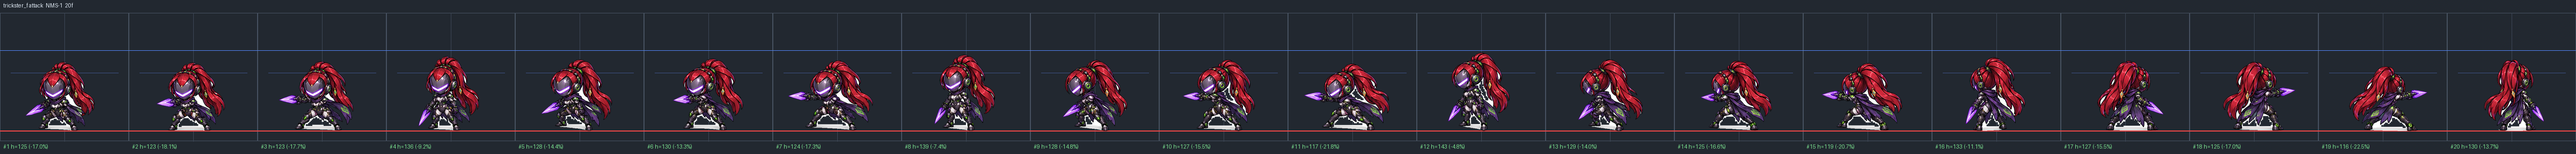
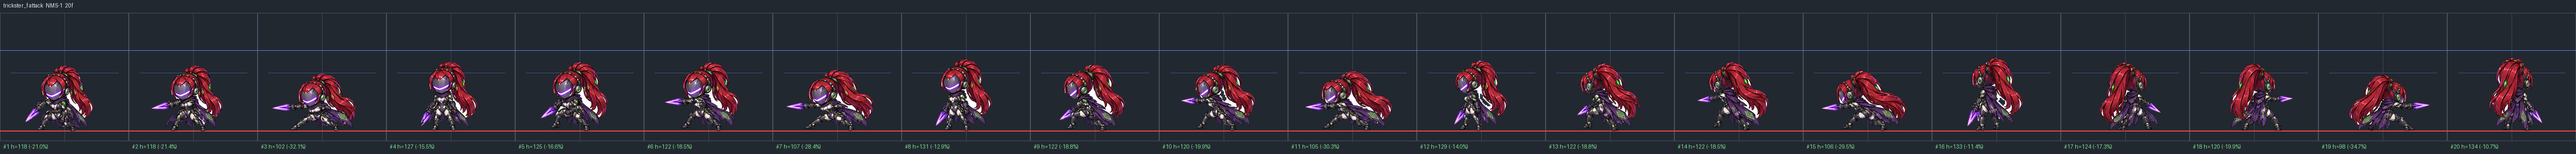
Trickster F: lunge-stab attack sheet (no white ground patch); no swing trail for straight stabs
Claude-Session: https://claude.ai/code/session_017QrEU6PVR1NvrPzc5r5uQv

diff --git a/js/armed_trail.js b/js/armed_trail.js
@@ -1,3 +1,3 @@
 'use strict';
 // สร้างโดย tools/armed_trail.py — วงเหวี่ยงของท่าโจมตีแบบถืออาวุธในภาพ ต่อแถว: f = เฟรมฟัน, p = ไหล่, a/b = ปลายอาวุธเฟรมก่อน/เฟรมฟัน (พิกัดช่อง 240 เทียบ CX/GROUND) • ห้ามแก้มือ
-const ARMED_TRAIL = {"berserker_f":[{"f":1,"p":[5,-105],"a":[34,-157],"b":[-85,-1]},{"f":1,"p":[8,-103],"a":[59,-143],"b":[-76,-1]},{"f":1,"p":[-8,-104],"a":[-58,-145],"b":[63,-1]},{"f":1,"p":[-9,-103],"a":[-60,-143],"b":[75,-1]},{"f":1,"p":[-6,-105],"a":[-35,-157],"b":[84,-1]},{"f":1,"p":[-8,-105],"a":[-40,-159],"b":[83,-1]},{"f":1,"p":[3,-105],"a":[38,-157],"b":[-71,-3]},{"f":1,"p":[7,-105],"a":[39,-159],"b":[-84,-1]}],"berserker_m":[{"f":1,"p":[-5,-107],"a":[-10,-165],"b":[-85,-5]},{"f":1,"p":[-1,-101],"a":[54,-114],"b":[-72,-5]},{"f":1,"p":[5,-106],"a":[-5,-163],"b":[60,-3]},{"f":1,"p":[0,-101],"a":[-55,-114],"b":[71,-5]},{"f":1,"p":[4,-107],"a":[9,-165],"b":[84,-5]},{"f":1,"p":[3,-106],"a":[-10,-163],"b":[85,-3]},{"f":1,"p":[2,-107],"a":[13,-164],"b":[80,-2]},{"f":1,"p":[-4,-106],"a":[9,-163],"b":[-86,-3]}],"einherjar_f":[{"f":1,"p":[9,-113],"a":[-12,-173],"b":[102,-16]},{"f":1,"p":[8,-110],"a":[-9,-168],"b":[57,-12]},{"f":1,"p":[-5,-110],"a":[-71,-101],"b":[-59,-22]},{"f":1,"p":[-9,-110],"a":[8,-168],"b":[-58,-12]},{"f":1,"p":[-10,-113],"a":[11,-173],"b":[-103,-16]},{"f":1,"p":[-6,-103],"a":[21,-158],"b":[-100,-23]},{"f":1,"p":[2,-105],"a":[-42,-161],"b":[87,-19]},{"f":1,"p":[5,-103],"a":[-22,-158],"b":[99,-23]}],"einherjar_m":[{"f":2,"p":[-1,-116],"a":[51,-73],"b":[-120,-11]},{"f":2,"p":[4,-114],"a":[46,-76],"b":[58,-22]},{"f":1,"p":[-4,-114],"a":[31,-175],"b":[77,-29]},{"f":2,"p":[-5,-114],"a":[-47,-76],"b":[-59,-22]},{"f":2,"p":[0,-116],"a":[-52,-73],"b":[119,-11]},{"f":2,"p":[6,-106],"a":[-49,-121],"b":[54,-115]},{"f":1,"p":[6,-113],"a":[74,-118],"b":[88,-31]},{"f":2,"p":[-7,-106],"a":[48,-121],"b":[-55,-115]}],"runecaster_f":[{"f":1,"p":[9,-101],"a":[117,-139],"b":[119,-76]},{"f":1,"p":[7,-100],"a":[97,-138],"b":[119,-126]},{"f":1,"p":[-7,-100],"a":[-88,-153],"b":[-113,-79]},{"f":1,"p":[-8,-100],"a":[-98,-138],"b":[-120,-126]},{"f":1,"p":[-10,-101],"a":[-118,-139],"b":[-120,-76]},{"f":1,"p":[7,-101],"a":[74,-155],"b":[-120,-127]},{"f":1,"p":[7,-104],"a":[93,-147],"b":[-120,-128]},{"f":1,"p":[-8,-101],"a":[-75,-155],"b":[119,-127]}],"runecaster_m":[{"f":1,"p":[5,-92],"a":[104,-137],"b":[-101,-24]},{"f":1,"p":[5,-92],"a":[98,-125],"b":[119,-63]},{"f":1,"p":[-3,-92],"a":[-89,-118],"b":[-120,-61]},{"f":1,"p":[-6,-92],"a":[-99,-125],"b":[-120,-63]},{"f":1,"p":[-6,-92],"a":[-105,-137],"b":[100,-24]},{"f":1,"p":[-3,-94],"a":[-77,-124],"b":[-118,-104]},{"f":1,"p":[-3,-88],"a":[-80,-113],"b":[88,-7]},{"f":1,"p":[2,-94],"a":[76,-124],"b":[117,-104]}],"trickster_f":[{"f":1,"p":[0,-86],"a":[56,-27],"b":[72,-64]},{"f":1,"p":[0,-86],"a":[68,-33],"b":[-50,-96]},{"f":2,"p":[-2,-84],"a":[-40,-45],"b":[-77,-57]},{"f":1,"p":[-1,-86],"a":[-69,-33],"b":[49,-96]},{"f":1,"p":[-1,-86],"a":[-57,-27],"b":[-73,-64]},{"f":1,"p":[-1,-86],"a":[-57,-23],"b":[-68,-61]},{"f":1,"p":[6,-85],"a":[68,-32],"b":[73,-74]},{"f":1,"p":[0,-86],"a":[56,-23],"b":[67,-61]}],"trickster_m":[{"f":1,"p":[3,-77],"a":[47,-18],"b":[67,-61]},{"f":1,"p":[-1,-76],"a":[28,-31],"b":[63,-53]},{"f":2,"p":[0,-75],"a":[36,-82],"b":[58,-50]},{"f":1,"p":[0,-76],"a":[-29,-31],"b":[-64,-53]},{"f":1,"p":[-4,-77],"a":[-48,-18],"b":[-68,-61]},{"f":1,"p":[1,-78],"a":[55,-14],"b":[70,-66]},{"f":1,"p":[0,-78],"a":[48,-15],"b":[66,-70]},{"f":1,"p":[-2,-78],"a":[-56,-14],"b":[-71,-66]}],"volva_f":[{"f":1,"p":[3,-98],"a":[59,-137],"b":[81,-9]},{"f":1,"p":[5,-99],"a":[57,-142],"b":[84,-10]},{"f":1,"p":[-3,-101],"a":[-36,-154],"b":[-77,-8]},{"f":1,"p":[-6,-99],"a":[-58,-142],"b":[-85,-10]},{"f":1,"p":[-4,-98],"a":[-60,-137],"b":[-82,-9]},{"f":1,"p":[-4,-99],"a":[-55,-141],"b":[-95,-14]},{"f":1,"p":[4,-103],"a":[-38,-78],"b":[84,-20]},{"f":1,"p":[3,-99],"a":[54,-141],"b":[94,-14]}],"volva_m":[{"f":1,"p":[0,-110],"a":[55,-168],"b":[78,-4]},{"f":1,"p":[2,-105],"a":[57,-161],"b":[73,-6]},{"f":1,"p":[-3,-105],"a":[-63,-161],"b":[59,-25]},{"f":1,"p":[-3,-105],"a":[-58,-161],"b":[-74,-6]},{"f":1,"p":[-1,-110],"a":[-56,-168],"b":[-79,-4]},{"f":1,"p":[3,-110],"a":[46,-169],"b":[84,-9]},{"f":1,"p":[3,-107],"a":[51,-163],"b":[85,-19]},{"f":1,"p":[-4,-110],"a":[-47,-169],"b":[-85,-9]}]};
+const ARMED_TRAIL = {"berserker_f":[{"f":1,"p":[5,-105],"a":[34,-157],"b":[-85,-1]},{"f":1,"p":[8,-103],"a":[59,-143],"b":[-76,-1]},{"f":1,"p":[-8,-104],"a":[-58,-145],"b":[63,-1]},{"f":1,"p":[-9,-103],"a":[-60,-143],"b":[75,-1]},{"f":1,"p":[-6,-105],"a":[-35,-157],"b":[84,-1]},{"f":1,"p":[-8,-105],"a":[-40,-159],"b":[83,-1]},{"f":1,"p":[3,-105],"a":[38,-157],"b":[-71,-3]},{"f":1,"p":[7,-105],"a":[39,-159],"b":[-84,-1]}],"berserker_m":[{"f":1,"p":[-5,-107],"a":[-10,-165],"b":[-85,-5]},{"f":1,"p":[-1,-101],"a":[54,-114],"b":[-72,-5]},{"f":1,"p":[5,-106],"a":[-5,-163],"b":[60,-3]},{"f":1,"p":[0,-101],"a":[-55,-114],"b":[71,-5]},{"f":1,"p":[4,-107],"a":[9,-165],"b":[84,-5]},{"f":1,"p":[3,-106],"a":[-10,-163],"b":[85,-3]},{"f":1,"p":[2,-107],"a":[13,-164],"b":[80,-2]},{"f":1,"p":[-4,-106],"a":[9,-163],"b":[-86,-3]}],"einherjar_f":[{"f":1,"p":[9,-113],"a":[-12,-173],"b":[102,-16]},{"f":1,"p":[8,-110],"a":[-9,-168],"b":[57,-12]},{"f":1,"p":[-5,-110],"a":[-71,-101],"b":[-59,-22]},{"f":1,"p":[-9,-110],"a":[8,-168],"b":[-58,-12]},{"f":1,"p":[-10,-113],"a":[11,-173],"b":[-103,-16]},{"f":1,"p":[-6,-103],"a":[21,-158],"b":[-100,-23]},{"f":1,"p":[2,-105],"a":[-42,-161],"b":[87,-19]},{"f":1,"p":[5,-103],"a":[-22,-158],"b":[99,-23]}],"einherjar_m":[{"f":2,"p":[-1,-116],"a":[51,-73],"b":[-120,-11]},{"f":2,"p":[4,-114],"a":[46,-76],"b":[58,-22]},{"f":1,"p":[-4,-114],"a":[31,-175],"b":[77,-29]},{"f":2,"p":[-5,-114],"a":[-47,-76],"b":[-59,-22]},{"f":2,"p":[0,-116],"a":[-52,-73],"b":[119,-11]},{"f":2,"p":[6,-106],"a":[-49,-121],"b":[54,-115]},{"f":1,"p":[6,-113],"a":[74,-118],"b":[88,-31]},{"f":2,"p":[-7,-106],"a":[48,-121],"b":[-55,-115]}],"runecaster_f":[{"f":1,"p":[9,-101],"a":[117,-139],"b":[119,-76]},{"f":1,"p":[7,-100],"a":[97,-138],"b":[119,-126]},{"f":1,"p":[-7,-100],"a":[-88,-153],"b":[-113,-79]},{"f":1,"p":[-8,-100],"a":[-98,-138],"b":[-120,-126]},{"f":1,"p":[-10,-101],"a":[-118,-139],"b":[-120,-76]},{"f":1,"p":[7,-101],"a":[74,-155],"b":[-120,-127]},{"f":1,"p":[7,-104],"a":[93,-147],"b":[-120,-128]},{"f":1,"p":[-8,-101],"a":[-75,-155],"b":[119,-127]}],"runecaster_m":[{"f":1,"p":[5,-92],"a":[104,-137],"b":[-101,-24]},{"f":1,"p":[5,-92],"a":[98,-125],"b":[119,-63]},{"f":1,"p":[-3,-92],"a":[-89,-118],"b":[-120,-61]},{"f":1,"p":[-6,-92],"a":[-99,-125],"b":[-120,-63]},{"f":1,"p":[-6,-92],"a":[-105,-137],"b":[100,-24]},{"f":1,"p":[-3,-94],"a":[-77,-124],"b":[-118,-104]},{"f":1,"p":[-3,-88],"a":[-80,-113],"b":[88,-7]},{"f":1,"p":[2,-94],"a":[76,-124],"b":[117,-104]}],"trickster_m":[{"f":1,"p":[3,-77],"a":[47,-18],"b":[67,-61]},{"f":1,"p":[-1,-76],"a":[28,-31],"b":[63,-53]},{"f":2,"p":[0,-75],"a":[36,-82],"b":[58,-50]},{"f":1,"p":[0,-76],"a":[-29,-31],"b":[-64,-53]},{"f":1,"p":[-4,-77],"a":[-48,-18],"b":[-68,-61]},{"f":1,"p":[1,-78],"a":[55,-14],"b":[70,-66]},{"f":1,"p":[0,-78],"a":[48,-15],"b":[66,-70]},{"f":1,"p":[-2,-78],"a":[-56,-14],"b":[-71,-66]}],"volva_f":[{"f":1,"p":[3,-98],"a":[59,-137],"b":[81,-9]},{"f":1,"p":[5,-99],"a":[57,-142],"b":[84,-10]},{"f":1,"p":[-3,-101],"a":[-36,-154],"b":[-77,-8]},{"f":1,"p":[-6,-99],"a":[-58,-142],"b":[-85,-10]},{"f":1,"p":[-4,-98],"a":[-60,-137],"b":[-82,-9]},{"f":1,"p":[-4,-99],"a":[-55,-141],"b":[-95,-14]},{"f":1,"p":[4,-103],"a":[-38,-78],"b":[84,-20]},{"f":1,"p":[3,-99],"a":[54,-141],"b":[94,-14]}],"volva_m":[{"f":1,"p":[0,-110],"a":[55,-168],"b":[78,-4]},{"f":1,"p":[2,-105],"a":[57,-161],"b":[73,-6]},{"f":1,"p":[-3,-105],"a":[-63,-161],"b":[59,-25]},{"f":1,"p":[-3,-105],"a":[-58,-161],"b":[-74,-6]},{"f":1,"p":[-1,-110],"a":[-56,-168],"b":[-79,-4]},{"f":1,"p":[3,-110],"a":[46,-169],"b":[84,-9]},{"f":1,"p":[3,-107],"a":[51,-163],"b":[85,-19]},{"f":1,"p":[-4,-110],"a":[-47,-169],"b":[-85,-9]}]};

diff --git a/index.html b/index.html
@@ -13,8 +13,8 @@
   <meta name="description" content="IRON VALHALLA — เกม RPG หุ่นยนต์แอนดรอยด์ในโลกตำนานนอร์ส เล่นบนเบราว์เซอร์">
   <link rel="preconnect" href="https://fonts.googleapis.com">
   <link href="https://fonts.googleapis.com/css2?family=Kanit:wght@400;500;600;700;800&family=Noto+Sans+Thai:wght@400;500;600;700&family=IBM+Plex+Sans+Thai:wght@400;500;600&family=IBM+Plex+Mono:wght@500;600&display=swap" rel="stylesheet">
-  <link rel="stylesheet" href="css/style.css?v=202610021049">
-  <link rel="stylesheet" href="css/visor.css?v=202610021049">
+  <link rel="stylesheet" href="css/style.css?v=202610021120">
+  <link rel="stylesheet" href="css/visor.css?v=202610021120">
 </head>
 <body class="visor">
   <canvas id="cv"></canvas>
@@ -284,49 +284,49 @@
   </div>
 
   <script src="https://cdn.jsdelivr.net/npm/@supabase/supabase-js@2.45.4/dist/umd/supabase.min.js"></script>
-  <script src="js/i18n.js?v=202610021049"></script>
-  <script src="js/online.config.js?v=202610021049"></script>
-  <script src="js/data.js?v=202610021049"></script>
-  <script src="js/art.js?v=202610021049"></script>
-  <script src="js/util.js?v=202610021049"></script>
-  <script src="js/maps.js?v=202610021049"></script>
-  <script src="js/flora.js?v=202610021049"></script>
-  <script src="js/sprites.js?v=202610021049"></script>
-  <script src="js/rig.js?v=202610021049"></script>
-  <script src="js/pose.js?v=202610021049"></script>
-  <script src="js/anim.js?v=202610021049"></script>
-  <script src="js/paperdoll_data.js?v=202610021049"></script>
-  <script src="js/paperdoll_fix.js?v=202610021049"></script>
-  <script src="js/paperdoll_depth.js?v=202610021049"></script>
-  <script src="js/paperdoll.js?v=202610021049"></script>
-  <script src="js/armed_trail.js?v=202610021049"></script>
-  <script src="js/weapontrail.js?v=202610021049"></script>
-  <script src="js/sound.js?v=202610021049"></script>
-  <script src="js/music.js?v=202610021049"></script>
-  <script src="js/title.js?v=202610021049"></script>
-  <script src="js/passive.js?v=202610021049"></script>
-  <script src="js/game.js?v=202610021049"></script>
-  <script src="js/npc.js?v=202610021049"></script>
-  <script src="js/bot.js?v=202610021049"></script>
-  <script src="js/online.js?v=202610021049"></script>
-  <script src="js/party.js?v=202610021049"></script>
-  <script src="js/trade.js?v=202610021049"></script>
-  <script src="js/fx2.js?v=202610021049"></script>
-  <script src="js/juice.js?v=202610021049"></script>
-  <script src="js/render.js?v=202610021049"></script>
-  <script src="js/ui.js?v=202610021049"></script>
-  <script src="js/pad.js?v=202610021049"></script>
-  <script src="js/nav.js?v=202610021049"></script>
-  <script src="js/quest.js?v=202610021049"></script>
-  <script src="js/daily.js?v=202610021049"></script>
-  <script src="js/story.js?v=202610021049"></script>
-  <script src="js/content_ch6.js?v=202610021049"></script>
-  <script src="js/loot.js?v=202610021049"></script>
-  <script src="js/balance.js?v=202610021049"></script>
-  <script src="js/worldboss.js?v=202610021049"></script>
-  <script src="js/classbook.js?v=202610021049"></script>
-  <script src="js/gacha.js?v=202610021049"></script>
-  <script src="js/emote.js?v=202610021049"></script>
-  <script src="js/main.js?v=202610021049"></script>
+  <script src="js/i18n.js?v=202610021120"></script>
+  <script src="js/online.config.js?v=202610021120"></script>
+  <script src="js/data.js?v=202610021120"></script>
+  <script src="js/art.js?v=202610021120"></script>
+  <script src="js/util.js?v=202610021120"></script>
+  <script src="js/maps.js?v=202610021120"></script>
+  <script src="js/flora.js?v=202610021120"></script>
+  <script src="js/sprites.js?v=202610021120"></script>
+  <script src="js/rig.js?v=202610021120"></script>
+  <script src="js/pose.js?v=202610021120"></script>
+  <script src="js/anim.js?v=202610021120"></script>
+  <script src="js/paperdoll_data.js?v=202610021120"></script>
+  <script src="js/paperdoll_fix.js?v=202610021120"></script>
+  <script src="js/paperdoll_depth.js?v=202610021120"></script>
+  <script src="js/paperdoll.js?v=202610021120"></script>
+  <script src="js/armed_trail.js?v=202610021120"></script>
+  <script src="js/weapontrail.js?v=202610021120"></script>
+  <script src="js/sound.js?v=202610021120"></script>
+  <script src="js/music.js?v=202610021120"></script>
+  <script src="js/title.js?v=202610021120"></script>
+  <script src="js/passive.js?v=202610021120"></script>
+  <script src="js/game.js?v=202610021120"></script>
+  <script src="js/npc.js?v=202610021120"></script>
+  <script src="js/bot.js?v=202610021120"></script>
+  <script src="js/online.js?v=202610021120"></script>
+  <script src="js/party.js?v=202610021120"></script>
+  <script src="js/trade.js?v=202610021120"></script>
+  <script src="js/fx2.js?v=202610021120"></script>
+  <script src="js/juice.js?v=202610021120"></script>
+  <script src="js/render.js?v=202610021120"></script>
+  <script src="js/ui.js?v=202610021120"></script>
+  <script src="js/pad.js?v=202610021120"></script>
+  <script src="js/nav.js?v=202610021120"></script>
+  <script src="js/quest.js?v=202610021120"></script>
+  <script src="js/daily.js?v=202610021120"></script>
+  <script src="js/story.js?v=202610021120"></script>
+  <script src="js/content_ch6.js?v=202610021120"></script>
+  <script src="js/loot.js?v=202610021120"></script>
+  <script src="js/balance.js?v=202610021120"></script>
+  <script src="js/worldboss.js?v=202610021120"></script>
+  <script src="js/classbook.js?v=202610021120"></script>
+  <script src="js/gacha.js?v=202610021120"></script>
+  <script src="js/emote.js?v=202610021120"></script>
+  <script src="js/main.js?v=202610021120"></script>
 </body>
 </html>

diff --git a/tools/armed_trail.py b/tools/armed_trail.py
@@ -12,6 +12,7 @@ from PIL import Image, ImageDraw
 ROOT = os.path.join(os.path.dirname(__file__), '..'); A = os.path.join(ROOT, 'assets')
 C, CX, GROUND = 240, 120, 220
 K = np.ones((3, 3), np.uint8)
+NO_SWING = {'trickster_f'}  # ท่าโจมตีเป็นการพุ่งแทงตรง ไม่ได้เหวี่ยง → ไม่มีแสงโค้ง
 
 
 def far(mask, px, py, foot, min_area=25):
@@ -57,7 +58,7 @@ def main():
     for fn in sorted(os.listdir(A)):
         if not (fn.startswith('anim_') and fn.endswith('_attack.webp')) or '_bare_' in fn: continue
         gk = fn[5:-len('_attack.webp')]
-        if gk.startswith(('mob_', 'novice_')): continue  # มอนสเตอร์/Novice ไม่มีอาวุธประจำ Class
+        if gk.startswith(('mob_', 'novice_')) or gk in NO_SWING: continue  # มอนสเตอร์/Novice ไม่มีอาวุธประจำ Class
         img = Image.open(os.path.join(A, fn)).convert('RGBA'); arr = np.array(img)
         rows = [row_trail([arr[r * C:(r + 1) * C, f * C:(f + 1) * C] for f in range(arr.shape[1] // C)]) for r in range(arr.shape[0] // C)]
         out[gk] = rows
